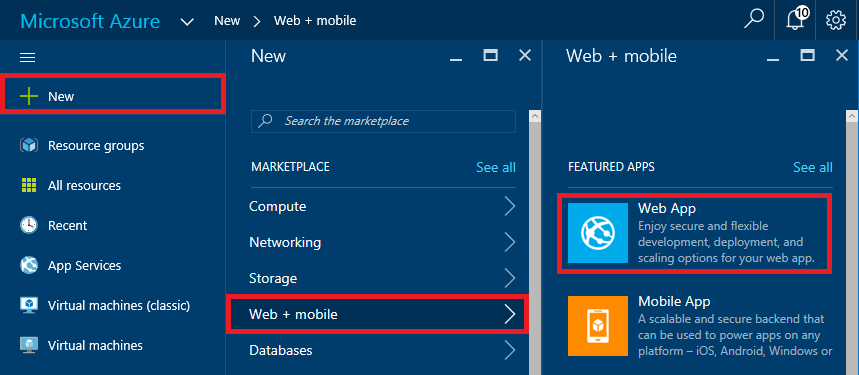
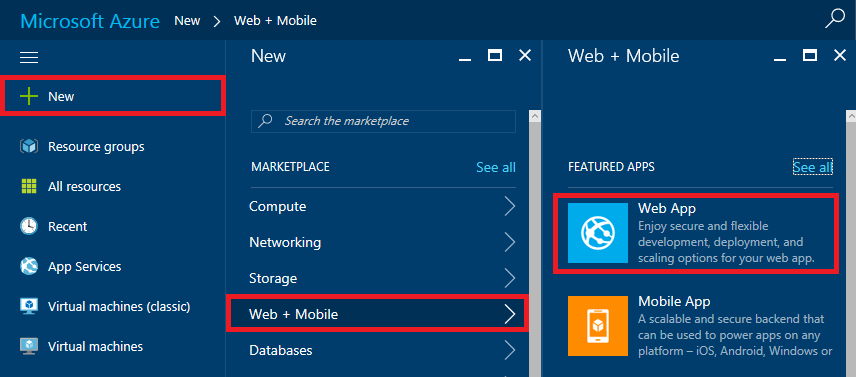
More updates to Storage module

diff --git a/Workshop/3. Storage/Azure Storage and Cognitive Services HOL (Node).html b/Workshop/3. Storage/Azure Storage and Cognitive Services HOL (Node).html
@@ -493,7 +493,7 @@ vertical-align:1px;
 <li>An active Microsoft Azure subscription. If you don't have one, <a href="http://aka.ms/WATK-FreeTrial">sign up for a free trial</a>.</li>
 <li><a href="http://storageexplorer.com/">Microsoft Azure Storage Explorer</a></li>
 <li><a href="https://code.visualstudio.com/download">Visual Studio Code</a></li>
-<li><a href="https://git-scm.com/downloads">Git</a> version 2.0 or higher</li>
+<li><a href="https://git-scm.com/downloads">Git</a> version 2.0 or higher. See <a href="https://git-scm.com/book/en/v2/Getting-Started-Installing-Git">https://git-scm.com/book/en/v2/Getting-Started-Installing-Git</a> for instructions for installing it on Windows, macOS, and Linux.</li>
 <li><a href="https://nodejs.org/en/download/">Node.js</a> version 4 or higher</li>
 </ul>
 <hr>
@@ -631,11 +631,9 @@ vertical-align:1px;
 <li>
 <p>In the Command Prompt window, execute the following command, substituting the Computer Vision API key you copied to the clipboard in the previous exercise for <em>vision_api_key</em>:</p>
 <p>Windows:</p>
- <pre> set AZURE_VISION_API_KEY=<i>vision_api_key</i>
- </pre>
+ <pre> set AZURE_VISION_API_KEY=<i>vision_api_key</i></pre>
 <p>Mac:</p>
- <pre> export AZURE_VISION_API_KEY=<i>vision_api_key</i>
- </pre>
+ <pre> export AZURE_VISION_API_KEY=<i>vision_api_key</i></pre>
 <blockquote>
 <p>Storing sensitive values such as API keys in environment variables prevents you from having to embed them in your code, where a determined intruder could find them and use them. When you deploy the app to the cloud, these values will be stored in Azure and never exposed to the end user or transmitted over the wire.</p>
 </blockquote>
@@ -643,11 +641,9 @@ vertical-align:1px;
 <li>
 <p>Next, execute the following command, substituting the name of the storage account you created in Exercise 1 for <em>storage_account_name</em>:</p>
 <p>Windows:</p>
- <pre> set AZURE_STORAGE_ACCOUNT=<i>storage_account_name</i>
- </pre>
+ <pre> set AZURE_STORAGE_ACCOUNT=<i>storage_account_name</i></pre>
 <p>Mac:</p>
- <pre> export AZURE_STORAGE_ACCOUNT=<i>storage_account_name</i>
- </pre>
+ <pre> export AZURE_STORAGE_ACCOUNT=<i>storage_account_name</i></pre>
 </li>
 <li>
 <p>Return to the Azure Portal for a moment and open the blade for the storage account you created in Exercise 1. Then click <strong>Access keys</strong> to view the storage account's access keys.</p>
@@ -662,16 +658,13 @@ vertical-align:1px;
 <li>
 <p>Return to the Command Prompt window and type the following command, replacing <em>storage_account_key</em> with the access key on the clipboard:</p>
 <p>Windows:</p>
- <pre> set AZURE_STORAGE_ACCESS_KEY=<i>storage_account_key</i>
- </pre>
+ <pre> set AZURE_STORAGE_ACCESS_KEY=<i>storage_account_key</i></pre>
 <p>Mac:</p>
- <pre> export AZURE_STORAGE_ACCESS_KEY=<i>storage_account_key</i>
- </pre>
+ <pre> export AZURE_STORAGE_ACCESS_KEY=<i>storage_account_key</i></pre>
 </li>
 <li>
 <p>In the Command Prompt window, navigate to the Intellipix directory you created in Step 1 and execute the following command (note the space and the period at the end of the command) to start Visual Studio Code in that directory:</p>
- <pre> code .
- </pre>
+ <pre> code .</pre>
 </li>
 <li>
 <p>In Visual Studio Code, click the <strong>Git</strong> button in the ribbon on the left.</p>
@@ -685,13 +678,11 @@ vertical-align:1px;
 </li>
 <li>
 <p>Return to the Command Prompt window and make sure you're still in the "Intellipix" directory that you created for the project (the directory that was just placed under source control). Then execute the following command to initialize the project. When prompted for an author name, enter your name.</p>
- <pre> npm init -y
- </pre> 
+ <pre> npm init -y</pre> 
 </li>
 <li>
 <p>Now execute the following command to install the NPM packages that the app will use:</p>
- <pre> npm install -save azure-storage express multer request streamifier
- </pre> 
+ <pre> npm install -save azure-storage express multer request streamifier</pre> 
 <blockquote>
 <p><a href="https://www.npmjs.com/package/azure-storage">azure-storage</a> is Microsoft's Azure Storage Client Library for Node.js. It provides convenient JavaScript APIs for accessing blob storage, table storage, and more.</p>
 </blockquote>
@@ -715,8 +706,7 @@ vertical-align:1px;
 <li>
 <p>Add the following statements to <strong>.gitignore</strong> to exclude the specified directories from source control:</p>
  <pre> .vscode/
- node_modules/
- </pre>
+ node_modules/</pre>
 </li>
 <li>
 <p>Add a file named <strong>server.js</strong> to the project and insert the following statements:</p>
@@ -1174,8 +1164,7 @@ vertical-align:1px;
 <ol>
 <li>
 <p>Return to the Command Prompt window and, once more, make sure you're in the "Intellipix" directory that you created for the project. Then execute the following command to start <strong>server.js</strong>:</p>
- <pre> node server.js
- </pre>
+ <pre> node server.js</pre>
 </li>
 <li>
 <p>Open your browser and navigate to <a href="http://localhost:9898">http://localhost:9898</a>.</p>
@@ -1243,7 +1232,7 @@ vertical-align:1px;
 <p>Open the <a href="https://portal.azure.com">Azure Portal</a> in your browser. If you are asked to log in, do so using your Microsoft account.</p>
 </li>
 <li>
-<p>Click <strong>+ New</strong>, followed by <strong>Web + mobile</strong> and <strong>Web App</strong>.</p>
+<p>Click <strong>+ New</strong>, followed by <strong>Web + Mobile</strong> and <strong>Web App</strong>.</p>
 <p><a href="Images/node-new-web-app.png" target="_blank"><img src="Images/node-new-web-app.png" alt="Creating a new Azure Web App" style="max-width:100%;"></a></p>
 <p><em>Creating a new Azure Web App</em></p>
 </li>
@@ -1331,13 +1320,11 @@ vertical-align:1px;
 </li>
 <li>
 <p>Return to the Command Prompt window (or open a new one if you closed the last one) and execute the following command to add "azure" as a remote name. Substitute the Git URL on the clipboard for <em>git_url</em>.</p>
- <pre> git remote add azure <i>git_url</i>
- </pre>
+ <pre> git remote add azure <i>git_url</i></pre>
 </li>
 <li>
 <p>Now use the following command to deploy Intellipix from your local Git repository to Azure. When prompted to enter Git credentials, type the user name and password you specified in Step 17 of this exercise.</p>
- <pre> git push azure master
- </pre>
+ <pre> git push azure master</pre>
 </li>
 <li>
 <p>After a few moments, you should be greeted with a successful deployment.</p>

diff --git a/Workshop/3. Storage/Azure Storage and Cognitive Services HOL (Node).md b/Workshop/3. Storage/Azure Storage and Cognitive Services HOL (Node).md
@@ -31,7 +31,7 @@ The following are required to complete this hands-on lab:
 - An active Microsoft Azure subscription. If you don't have one, [sign up for a free trial](http://aka.ms/WATK-FreeTrial).
 - [Microsoft Azure Storage Explorer](http://storageexplorer.com/)
 - [Visual Studio Code](https://code.visualstudio.com/download)
-- [Git](https://git-scm.com/downloads) version 2.0 or higher
+- [Git](https://git-scm.com/downloads) version 2.0 or higher. See https://git-scm.com/book/en/v2/Getting-Started-Installing-Git for instructions for installing it on Windows, macOS, and Linux.
 - [Node.js](https://nodejs.org/en/download/) version 4 or higher
 
 ---
@@ -181,13 +181,11 @@ In this exercise, you will create a new Web app in Visual Studio Code and add co
 
 	Windows:
 	<pre>
-	set AZURE_VISION_API_KEY=<i>vision_api_key</i>
-	</pre>
+	set AZURE_VISION_API_KEY=<i>vision_api_key</i></pre>
 
 	Mac:
 	<pre>
-	export AZURE_VISION_API_KEY=<i>vision_api_key</i>
-	</pre>
+	export AZURE_VISION_API_KEY=<i>vision_api_key</i></pre>
 	
 	> Storing sensitive values such as API keys in environment variables prevents you from having to embed them in your code, where a determined intruder could find them and use them. When you deploy the app to the cloud, these values will be stored in Azure and never exposed to the end user or transmitted over the wire.
 
@@ -195,13 +193,11 @@ In this exercise, you will create a new Web app in Visual Studio Code and add co
 
 	Windows:
 	<pre>
-	set AZURE_STORAGE_ACCOUNT=<i>storage_account_name</i>
-	</pre>
+	set AZURE_STORAGE_ACCOUNT=<i>storage_account_name</i></pre>
 	
 	Mac:
 	<pre>
-	export AZURE_STORAGE_ACCOUNT=<i>storage_account_name</i>
-	</pre>
+	export AZURE_STORAGE_ACCOUNT=<i>storage_account_name</i></pre>
 
 1. Return to the Azure Portal for a moment and open the blade for the storage account you created in Exercise 1. Then click **Access keys** to view the storage account's access keys. 
 
@@ -219,19 +215,16 @@ In this exercise, you will create a new Web app in Visual Studio Code and add co
 	
 	Windows:
 	<pre>
-	set AZURE_STORAGE_ACCESS_KEY=<i>storage_account_key</i>
-	</pre>
+	set AZURE_STORAGE_ACCESS_KEY=<i>storage_account_key</i></pre>
 	
 	Mac:
 	<pre>
-	export AZURE_STORAGE_ACCESS_KEY=<i>storage_account_key</i>
-	</pre>
+	export AZURE_STORAGE_ACCESS_KEY=<i>storage_account_key</i></pre>
 
 1. In the Command Prompt window, navigate to the Intellipix directory you created in Step 1 and execute the following command (note the space and the period at the end of the command) to start Visual Studio Code in that directory:
 
 	<pre>
-	code .
-	</pre>
+	code .</pre>
 
 1. In Visual Studio Code, click the **Git** button in the ribbon on the left.
 
@@ -248,14 +241,12 @@ In this exercise, you will create a new Web app in Visual Studio Code and add co
 1. Return to the Command Prompt window and make sure you're still in the "Intellipix" directory that you created for the project (the directory that was just placed under source control). Then execute the following command to initialize the project. When prompted for an author name, enter your name.
 
 	<pre>
-	npm init -y
-	</pre> 
+	npm init -y</pre> 
 
 1. Now execute the following command to install the NPM packages that the app will use:
 
 	<pre>
-    npm install -save azure-storage express multer request streamifier
-	</pre> 
+    npm install -save azure-storage express multer request streamifier</pre> 
 
 	> [azure-storage](https://www.npmjs.com/package/azure-storage) is Microsoft's Azure Storage Client Library for Node.js. It provides convenient JavaScript APIs for accessing blob storage, table storage, and more.
 
@@ -283,8 +274,7 @@ In this exercise, you will create a new Web app in Visual Studio Code and add co
 
     <pre>
 	.vscode/
-	node_modules/
-	</pre>
+	node_modules/</pre>
 
 1. Add a file named **server.js** to the project and insert the following statements:
 
@@ -748,8 +738,7 @@ In this exercise, you will run the app locally in order to test it and familiari
 1. Return to the Command Prompt window and, once more, make sure you're in the "Intellipix" directory that you created for the project. Then execute the following command to start **server.js**:
 
 	<pre>
-	node server.js
-	</pre>
+	node server.js</pre>
 
 1. Open your browser and navigate to [http://localhost:9898](http://localhost:9898).
 
@@ -820,7 +809,7 @@ In this exercise, you will create an Azure Web App and deploy Intellipix to it u
 
 1. Open the [Azure Portal](https://portal.azure.com) in your browser. If you are asked to log in, do so using your Microsoft account.
 
-1. Click **+ New**, followed by **Web + mobile** and **Web App**.
+1. Click **+ New**, followed by **Web + Mobile** and **Web App**.
 
     ![Creating a new Azure Web App](Images/node-new-web-app.png)
 
@@ -923,14 +912,12 @@ In this exercise, you will create an Azure Web App and deploy Intellipix to it u
 1. Return to the Command Prompt window (or open a new one if you closed the last one) and execute the following command to add "azure" as a remote name. Substitute the Git URL on the clipboard for *git_url*.
 
 	<pre>
-	git remote add azure <i>git_url</i>
-	</pre>
+	git remote add azure <i>git_url</i></pre>
 
 1. Now use the following command to deploy Intellipix from your local Git repository to Azure. When prompted to enter Git credentials, type the user name and password you specified in Step 17 of this exercise.
 
 	<pre>
-	git push azure master
-	</pre>
+	git push azure master</pre>
 
 1. After a few moments, you should be greeted with a successful deployment.
 
